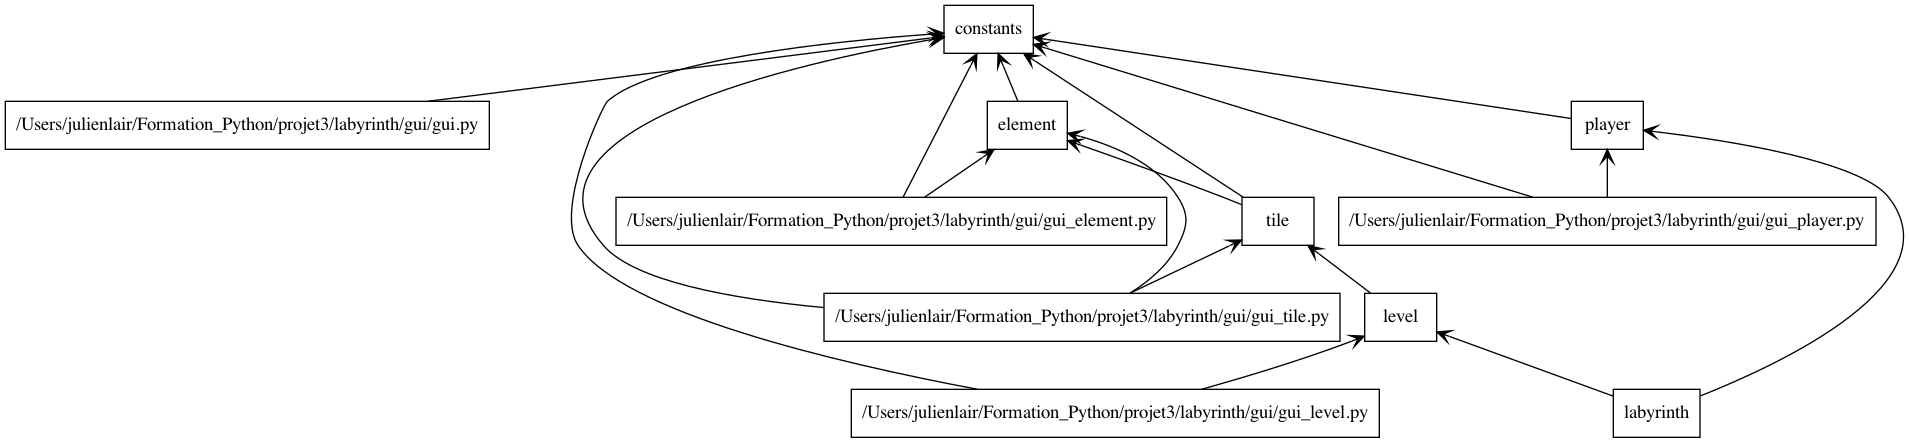
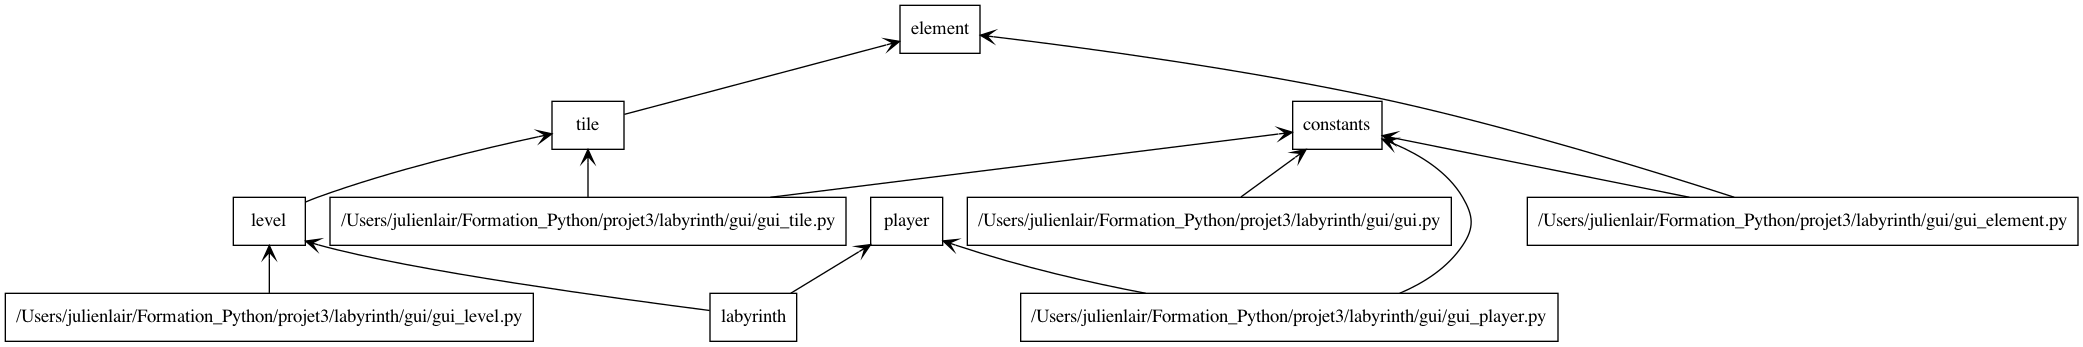
removed gui folder

diff --git a/tile.py b/tile.py
@@ -33,12 +33,12 @@ class Tile():
         if element_type == "guard":
             self.element = element.Element(self.pos_x, self.pos_y,
                                            element_type)
-        elif element_type == "plastic_tube":
-            self.element = element.Element(self.pos_x, self.pos_y,
-                                           element_type)
-        elif element_type == "needle":
-            self.element = element.Element(self.pos_x, self.pos_y,
-                                           element_type)
-        elif element_type == "ether":
-            self.element = element.Element(self.pos_x, self.pos_y,
-                                           element_type)
+        # elif element_type == "plastic_tube":
+        #     self.element = element.Element(self.pos_x, self.pos_y,
+        #                                    element_type)
+        # elif element_type == "needle":
+        #     self.element = element.Element(self.pos_x, self.pos_y,
+        #                                    element_type)
+        # elif element_type == "ether":
+        #     self.element = element.Element(self.pos_x, self.pos_y,
+        #                                    element_type)

diff --git a/labyrinth.py b/labyrinth.py
@@ -7,9 +7,9 @@ from os import system
 
 import level
 import player
-from gui import gui
-from gui import gui_player
-from gui import gui_level
+import gui
+import gui_player
+import gui_level
 
 
 class Game:
@@ -42,8 +42,8 @@ class Game:
                 if self.player.has_picked_all_items():
                     print("Congratulationss, you escaped!")
                 else:
-                    print("Ooops... You did not pick all required items...\
-                        You lost! HAHAHAHA!!!")
+                    print("Ooops... You did not pick all required items...")
+                    print("You lost! HAHAHAHA!!!")
 
 
 game_mode = "ui"

diff --git a/gui_level.py b/gui_level.py
@@ -4,7 +4,7 @@
     attributes, in order to play the game using a GUI. """
 
 import level
-from gui import gui_tile
+import gui_tile
 
 
 class GUILevel(level.Level):

diff --git a/gui_tile.py b/gui_tile.py
@@ -8,7 +8,7 @@ import os
 import pygame
 
 import tile
-from gui import gui_element
+import gui_element
 from constants import TILESIZE
 
 
